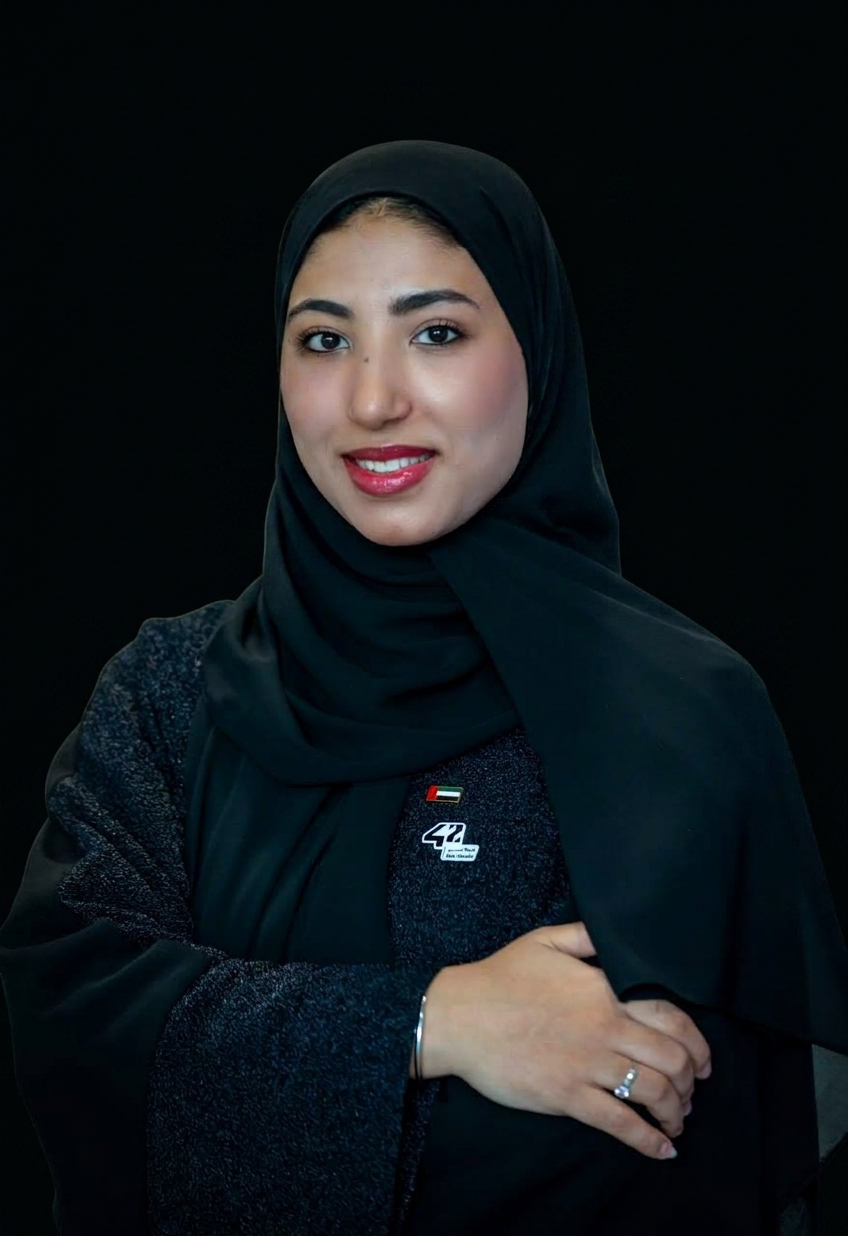
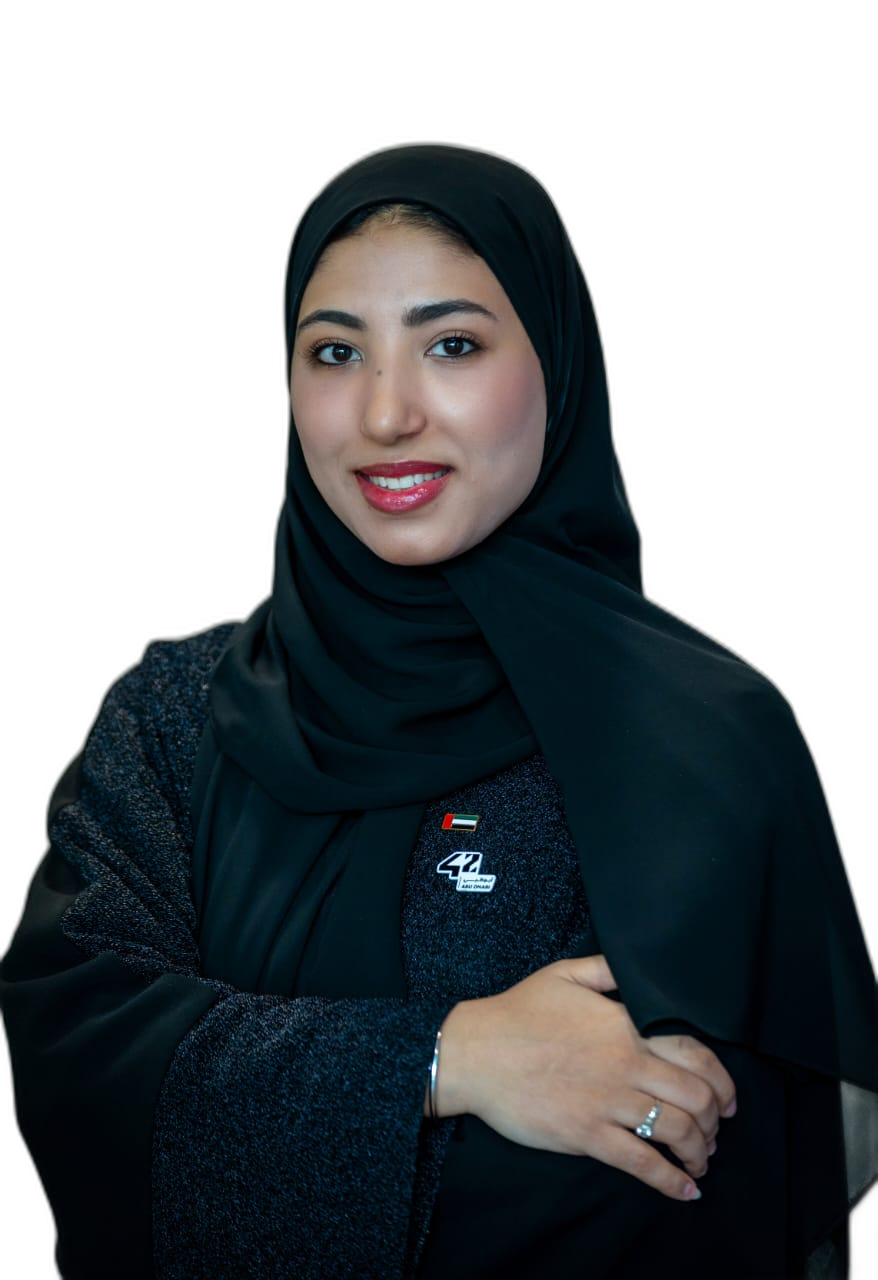
auto-commit for 0bca2607-48de-4b56-a1b1-e060c40742d3

diff --git a/frontend/src/pages/Home.jsx b/frontend/src/pages/Home.jsx
@@ -10,6 +10,7 @@ import {
   Users,
   Globe2,
   BookOpen,
+  Pencil,
 } from "lucide-react";
 import { useLang } from "../contexts/LangContext";
 
@@ -103,7 +104,7 @@ export default function Home() {
                 initial={{ opacity: 0 }}
                 animate={{ opacity: 1 }}
                 transition={{ duration: 1.2, delay: 0.2 }}
-                className="font-mono text-[10px] uppercase tracking-[0.3em] text-brass/70 mb-4"
+                className="font-mono text-xs md:text-sm uppercase tracking-[0.3em] text-brass mb-4"
                 data-testid="hero-name-tag"
               >
                 {t("hero.name")}
@@ -172,11 +173,25 @@ export default function Home() {
                 <img
                   src={portraitSrc}
                   alt="Sara Abouelkassem"
-                  className={`w-full h-full object-cover ${
-                    portraitVariant === "original" ? "photo-portrait" : "portrait-edited"
+                  className={`w-full h-full ${
+                    portraitVariant === "cutout"
+                      ? "object-contain portrait-cutout-img"
+                      : portraitVariant === "atmospheric"
+                      ? "object-cover portrait-edited"
+                      : "object-cover photo-portrait"
                   }`}
                 />
               </div>
+              {/* Edit portrait — discreet pencil link */}
+              <Link
+                to="/portrait"
+                className="mt-3 inline-flex items-center gap-1.5 font-mono text-[10px] uppercase tracking-[0.25em] text-parchment/40 hover:text-brass transition-colors"
+                data-testid="edit-portrait-link"
+                title="Edit portrait"
+              >
+                <Pencil className="w-3 h-3" strokeWidth={1.5} />
+                Edit portrait
+              </Link>
               <div className="mt-4 font-mono text-[9px] uppercase tracking-[0.3em] text-brass/60 text-center md:text-start">
                 {t("hero.plate")}
               </div>

diff --git a/frontend/src/pages/PortraitPick.jsx b/frontend/src/pages/PortraitPick.jsx
@@ -12,8 +12,8 @@ const VARIANTS = [
   {
     id: "cutout",
     file: "/assets/portrait-cutout.png",
-    label: "B · Background removed",
-    desc: "Subject isolated on pure abyss-black. Cleanest, lets the page atmosphere take over.",
+    label: "B · Background removed (transparent)",
+    desc: "True alpha-channel cutout — only you, fully transparent background. The hero's existing moody sea shows through behind your shoulders. Most natural fit with the page atmosphere.",
   },
   {
     id: "atmospheric",
@@ -76,10 +76,25 @@ export default function PortraitPick() {
                 data-testid={`pick-card-${v.id}`}
               >
                 <div className="relative aspect-[3/4] w-full bg-ink-navy overflow-hidden">
+                  {/* checkerboard hint behind transparent PNGs */}
+                  {v.id === "cutout" && (
+                    <div
+                      aria-hidden
+                      className="absolute inset-0 opacity-30"
+                      style={{
+                        backgroundImage:
+                          "linear-gradient(45deg, #0a1118 25%, transparent 25%), linear-gradient(-45deg, #0a1118 25%, transparent 25%), linear-gradient(45deg, transparent 75%, #0a1118 75%), linear-gradient(-45deg, transparent 75%, #0a1118 75%)",
+                        backgroundSize: "16px 16px",
+                        backgroundPosition: "0 0, 0 8px, 8px -8px, -8px 0px",
+                      }}
+                    />
+                  )}
                   <img
                     src={v.file}
                     alt={v.label}
-                    className="w-full h-full object-cover"
+                    className={`relative w-full h-full ${
+                      v.id === "cutout" ? "object-contain" : "object-cover"
+                    }`}
                   />
                   {active && (
                     <div className="absolute top-3 right-3 bg-brass text-abyss-black w-8 h-8 flex items-center justify-center">

diff --git a/frontend/src/index.css b/frontend/src/index.css
@@ -302,6 +302,11 @@ body.rtl [data-testid="nav-link-home"] {
   filter: saturate(0.92) contrast(1.04);
   opacity: 1;
 }
+/* True transparent cutout — show subject directly on page atmosphere with subtle drop shadow */
+.portrait-cutout-img {
+  filter: drop-shadow(0 12px 30px rgba(0, 0, 0, 0.6))
+    drop-shadow(0 2px 8px rgba(0, 0, 0, 0.4));
+}
 /* Portrait dissolves into the deep — soft radial edge fade */
 .portrait-fade {
   -webkit-mask-image: radial-gradient(